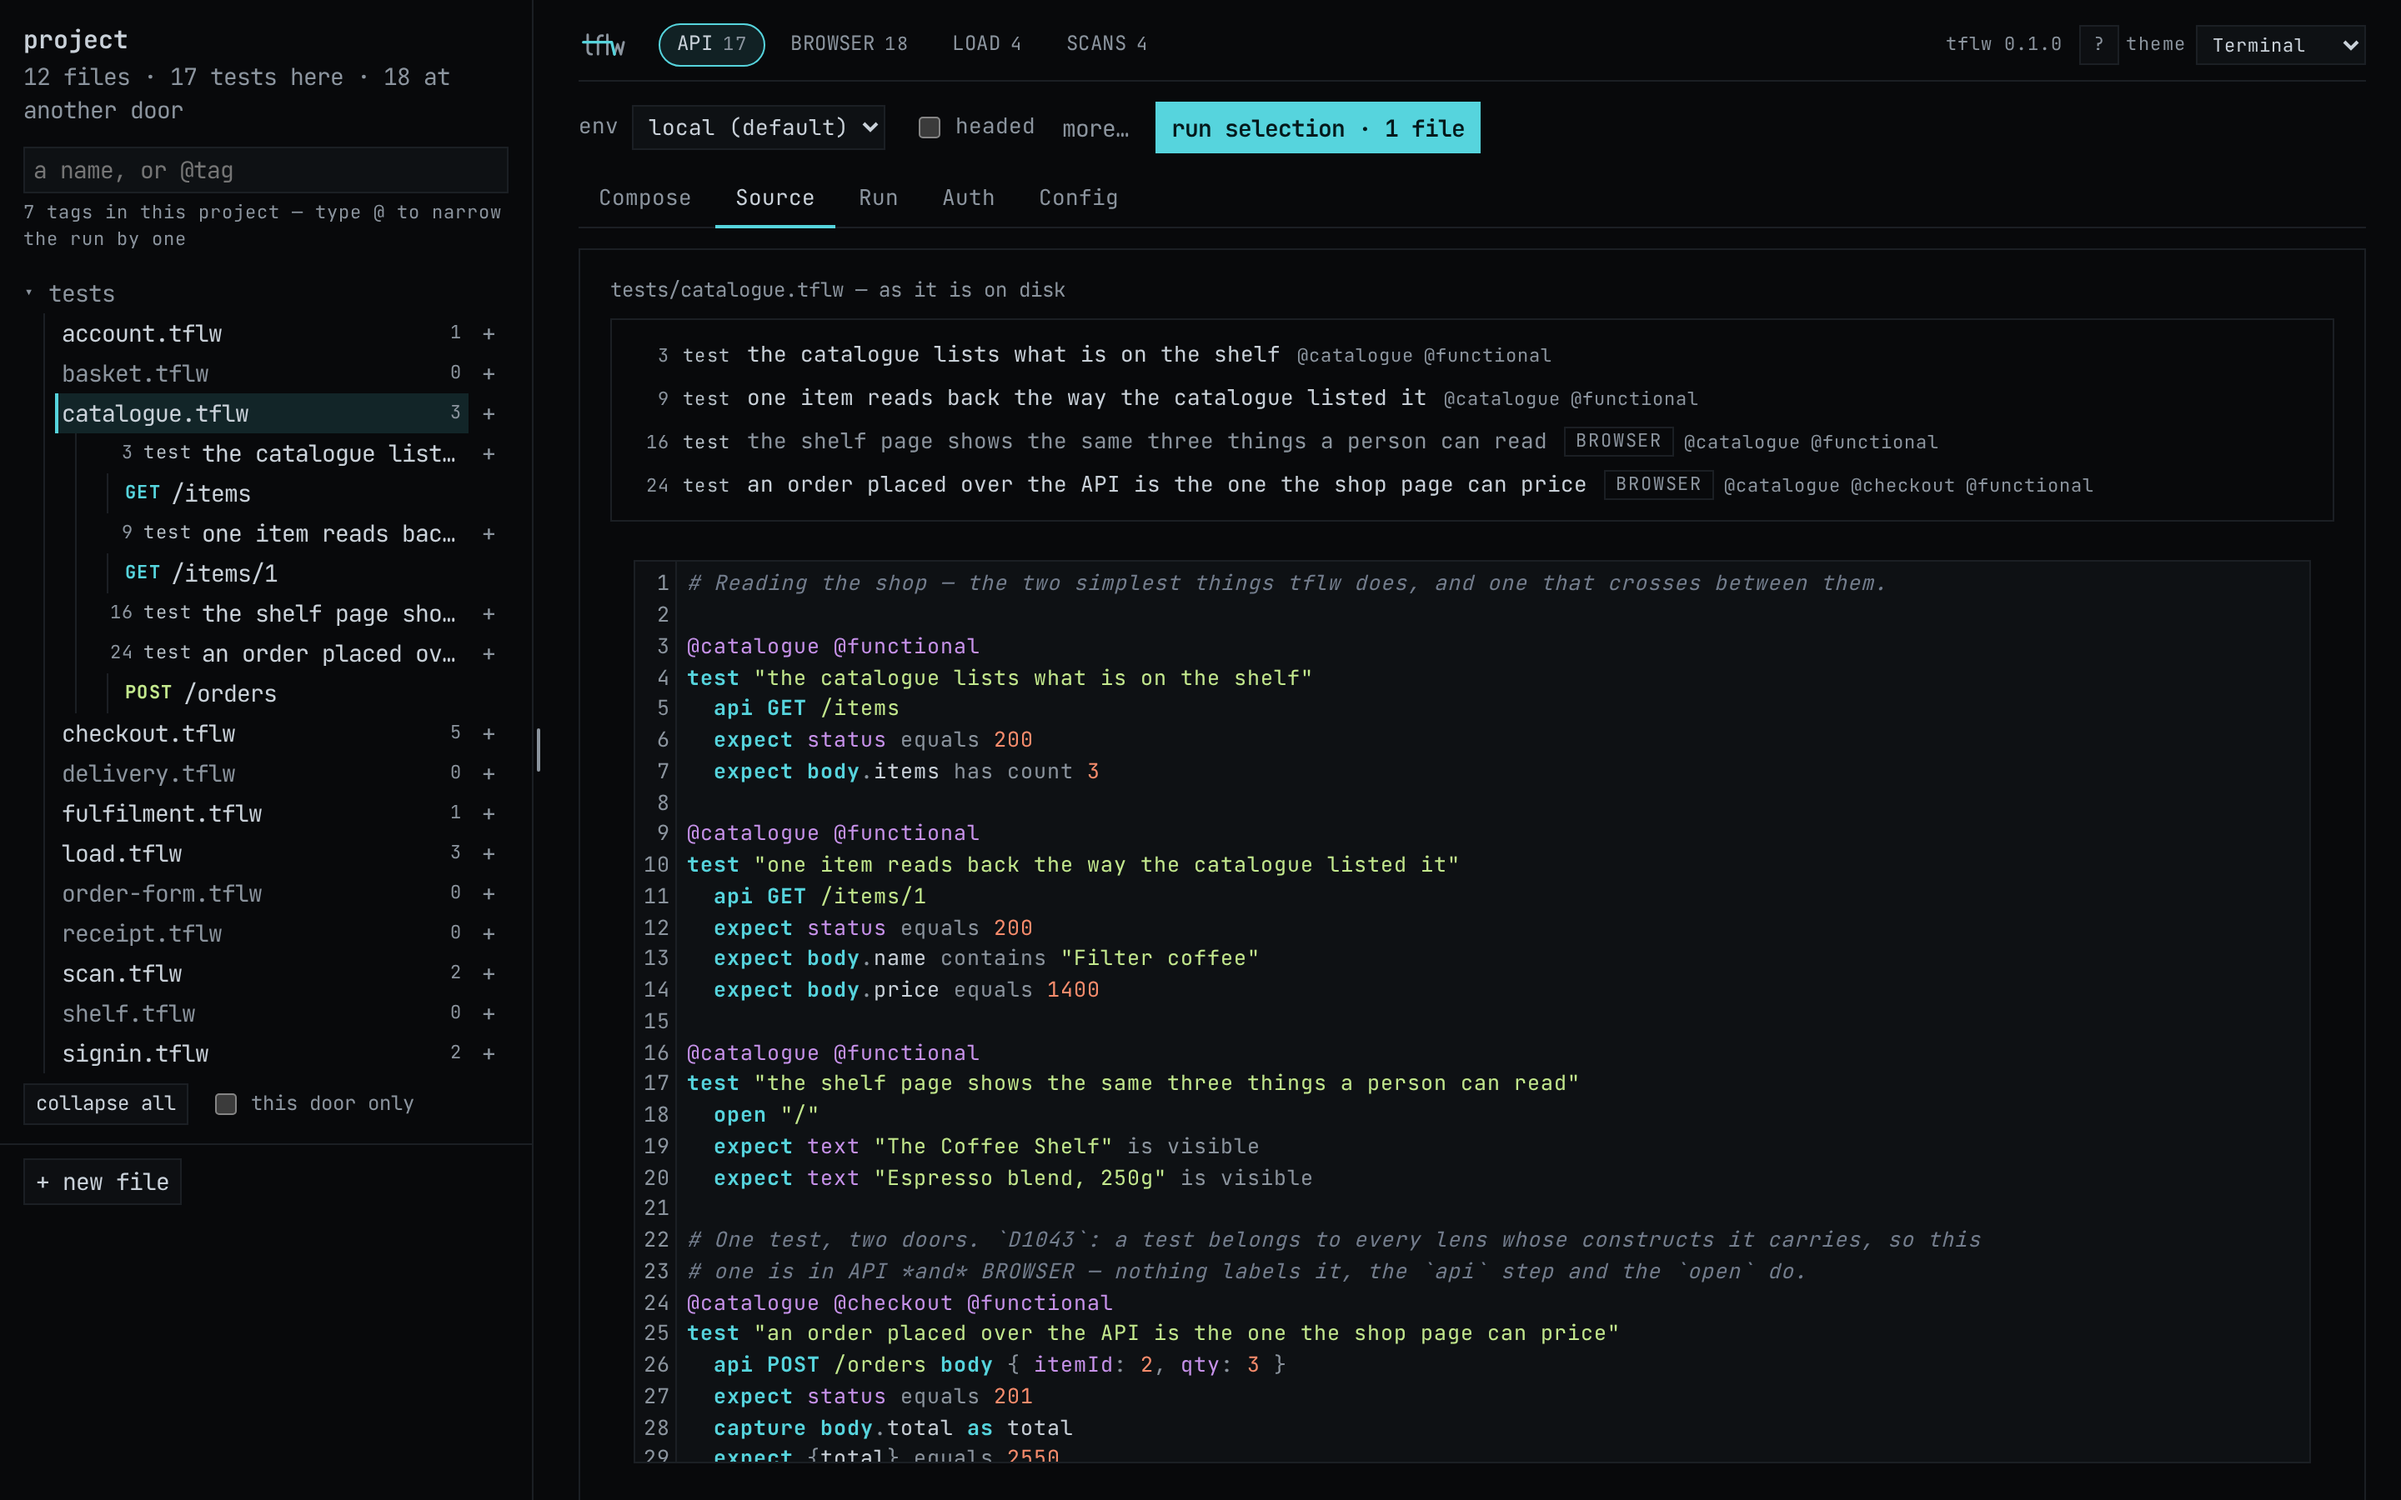
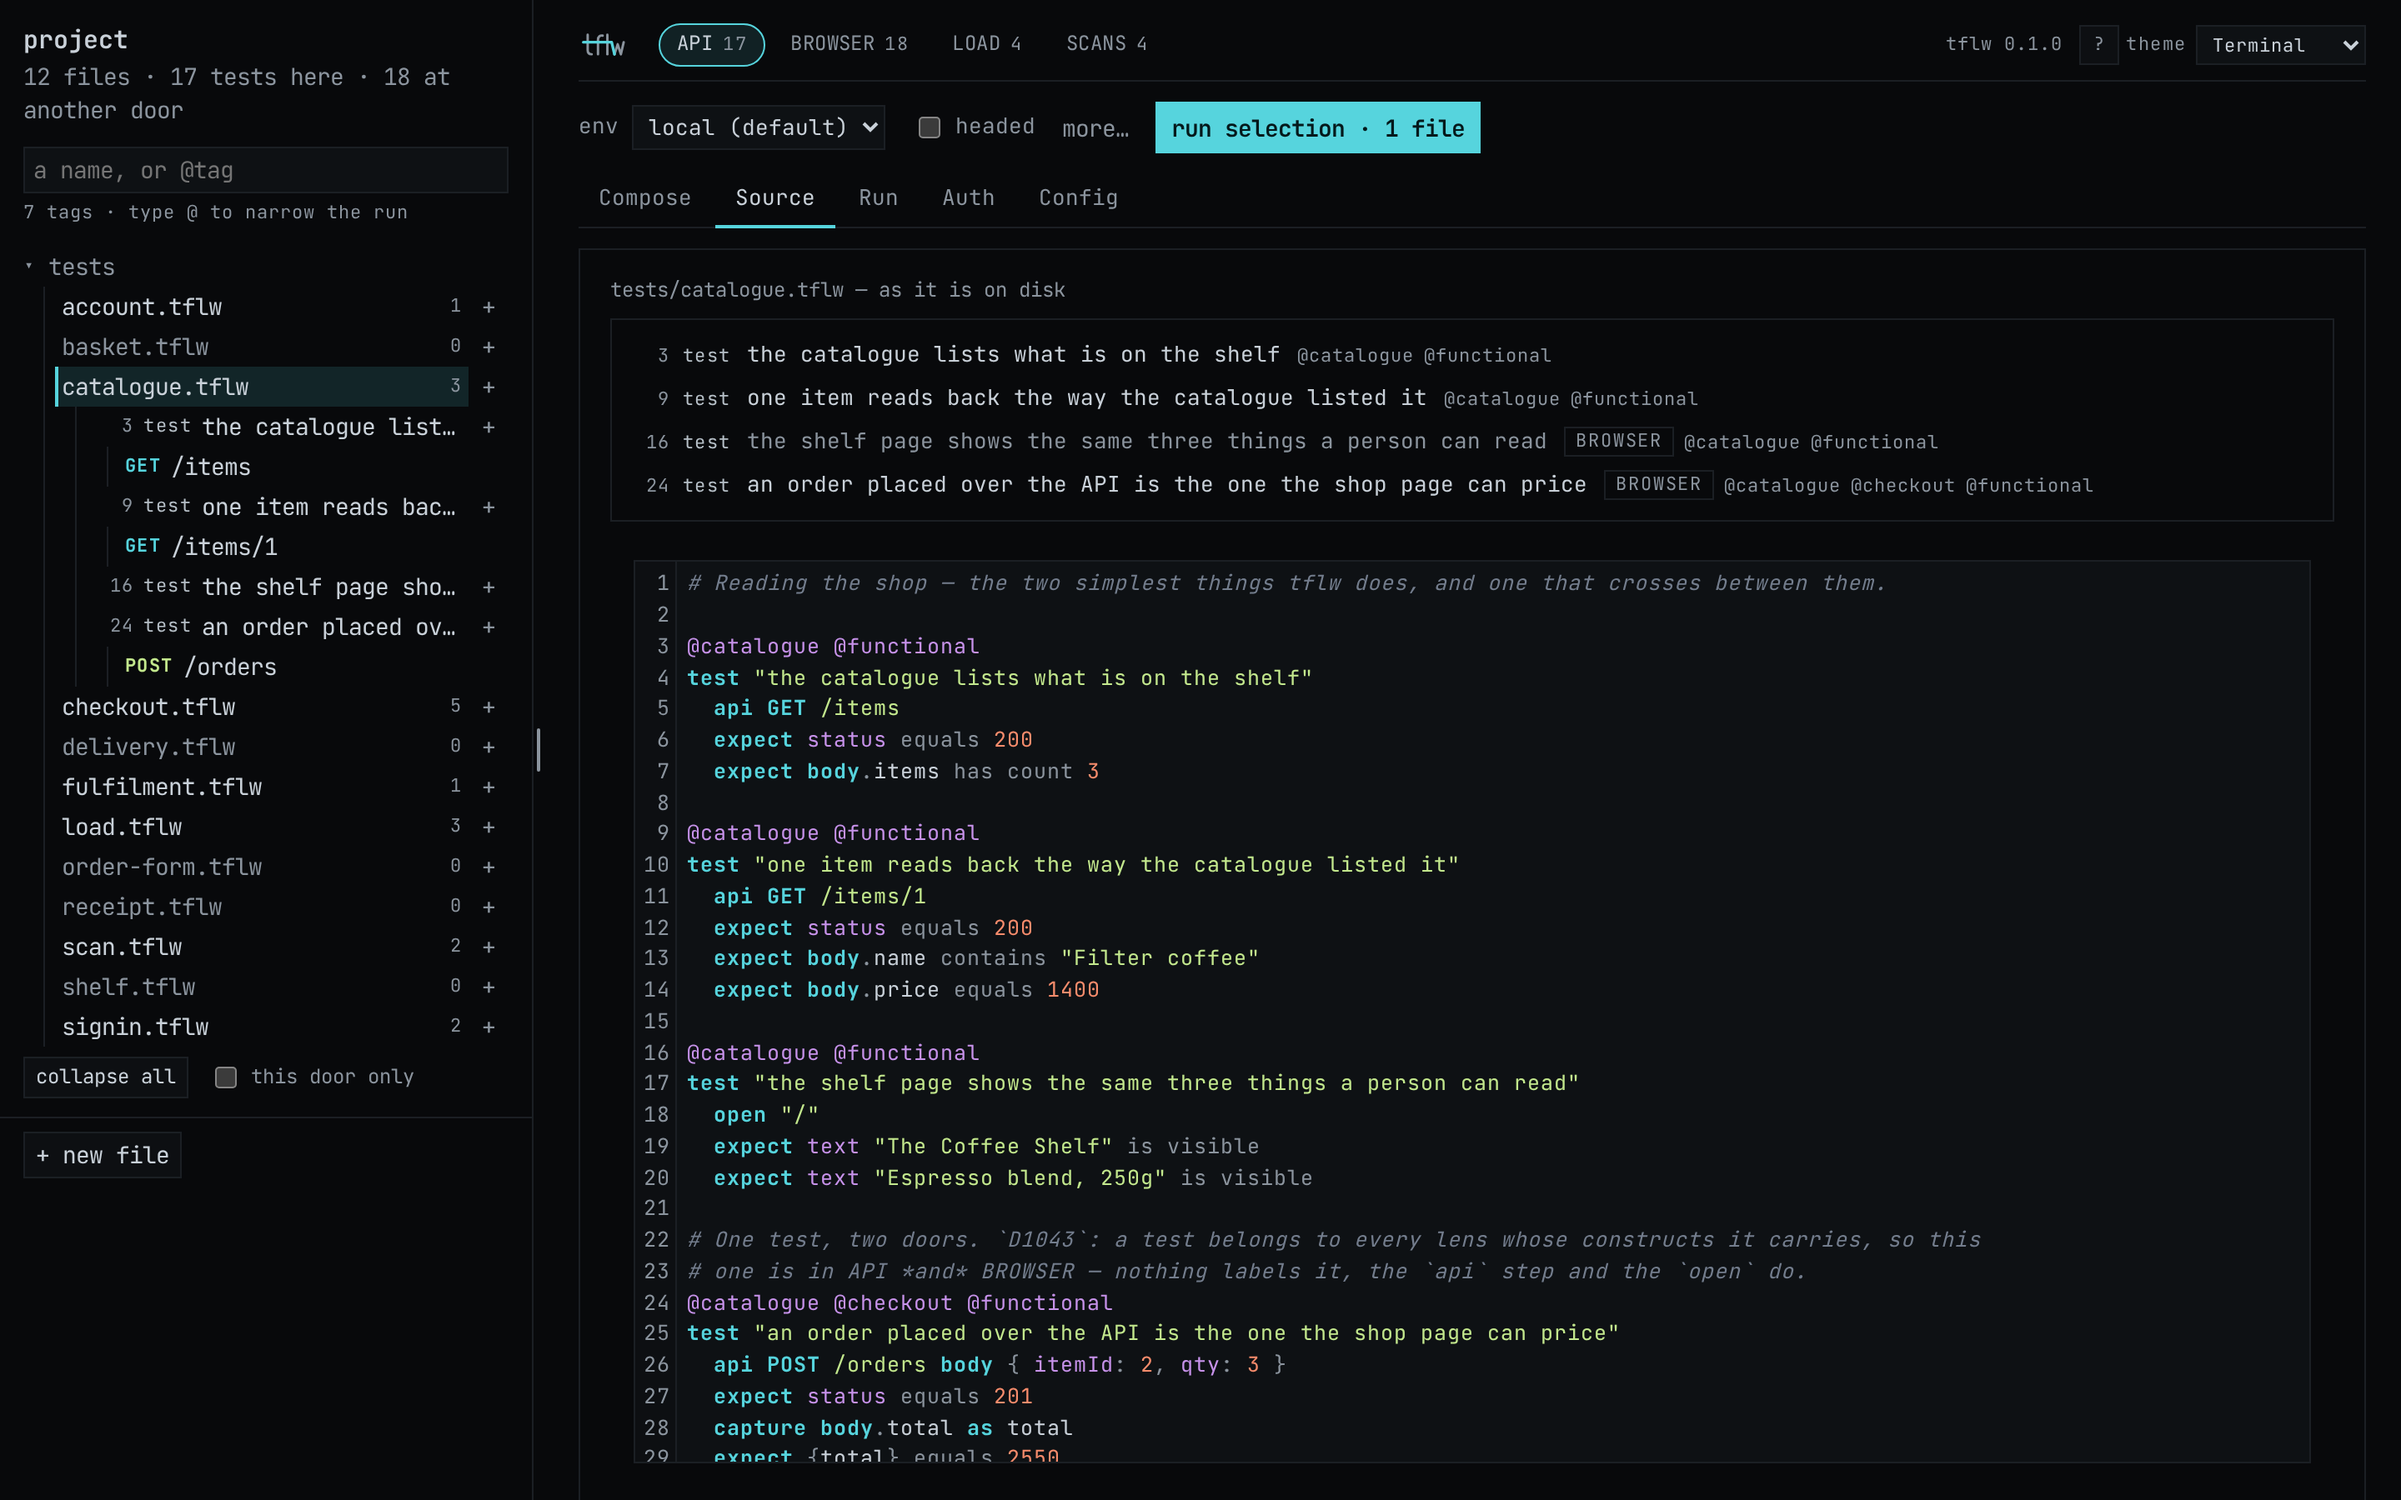
M241: the pictures recut after the rebase, and the tag-count test reads the shorter hint

Changed region(s): [[0.0, 0.1556, 0.2188, 0.8089], [0.1562, 0.1244, 0.1875, 0.1556], [0.0625, 0.1244, 0.0938, 0.1556]]

diff --git a/packages/cli/test/ui-page.test.ts b/packages/cli/test/ui-page.test.ts
@@ -440,7 +440,7 @@ test('the sidebar is the project as a tree: every file the server read, a leaf n
   assert.equal(await page.locator('[data-search]').count(), 1);
   assert.equal(await page.locator('#tflw-tags option').count(), allTags.size, 'every tag in the project is a completion');
   assert.equal(await page.locator('[data-search-hint]').getAttribute('data-search-kind'), 'none');
-  assert.match((await page.locator('[data-search-hint]').textContent())!, new RegExp(`^${allTags.size} tags? in this project`));
+  assert.match((await page.locator('[data-search-hint]').textContent())!, new RegExp(`^${allTags.size} tags? · type @`));
   // U7: the tab has the docs site's mark, and the page's own load logs no 404 for it.
   const icon = await api(`${baseUrl}/favicon.svg`);
   assert.equal(icon.status, 200);
